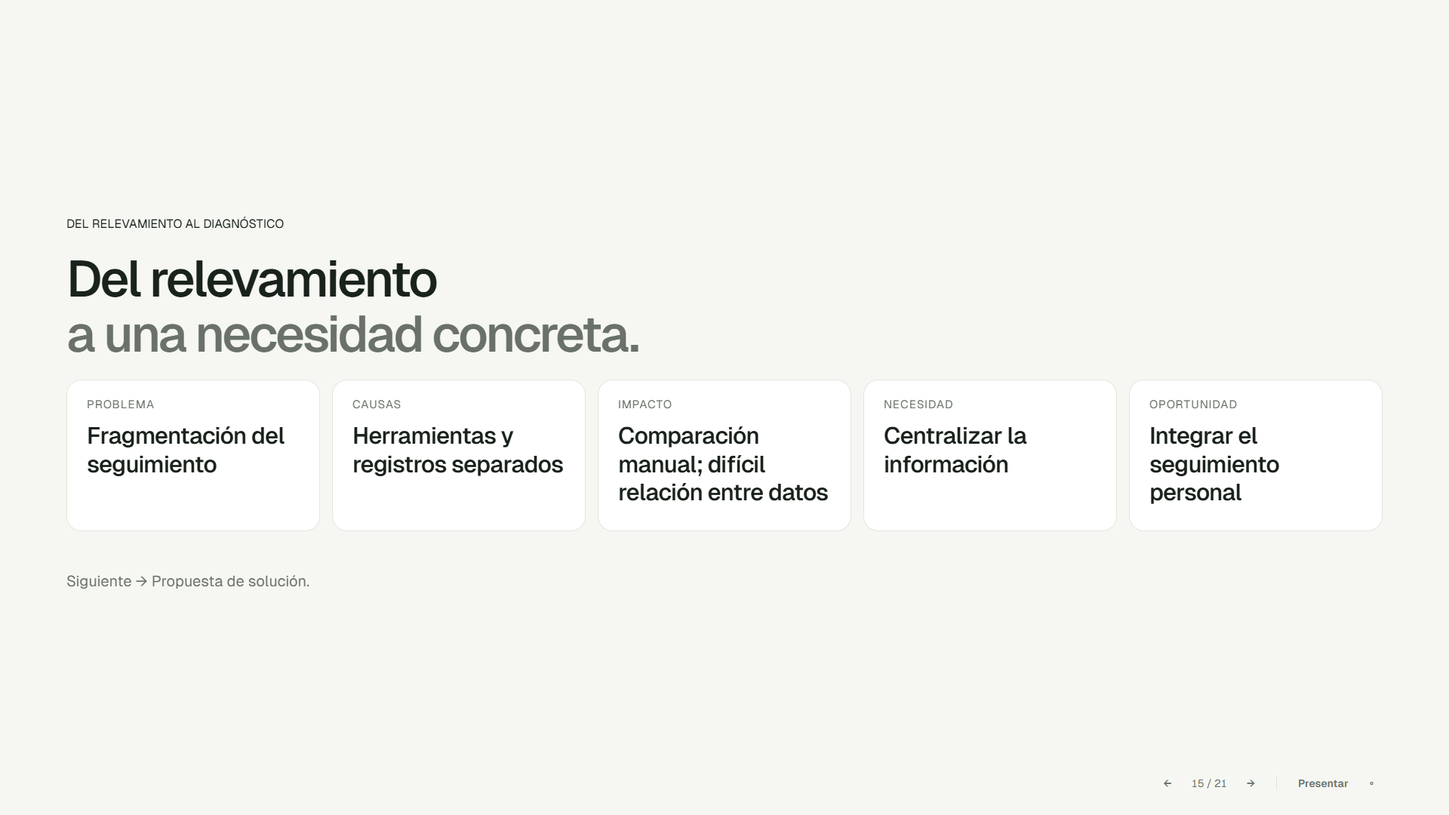
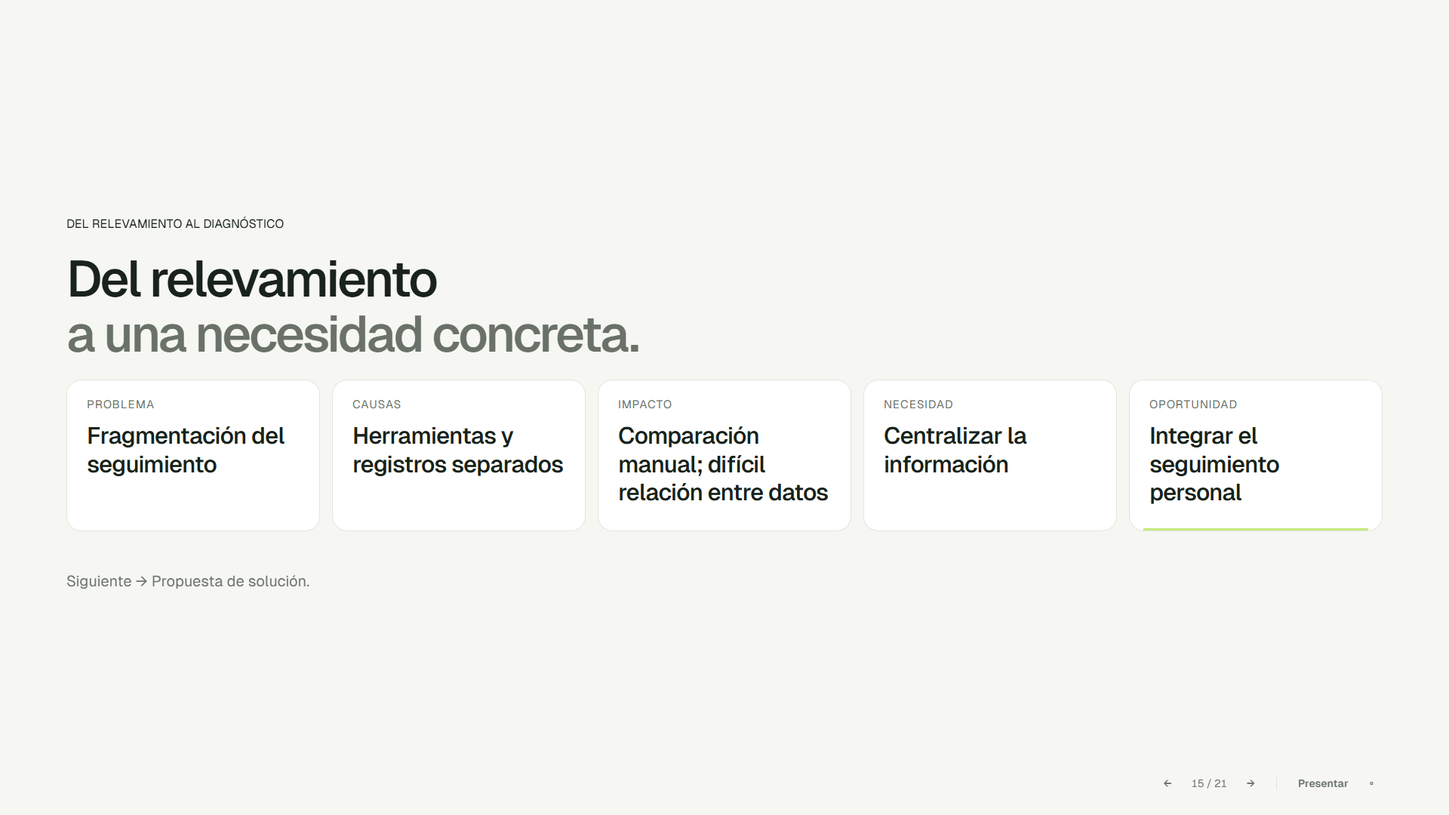
feat: polish presentation narrative and motion on experimental branch

diff --git a/src/presentation/final-deck.tsx b/src/presentation/final-deck.tsx
@@ -1,11 +1,11 @@
-import type { ReactNode } from 'react';
+import type { ReactNode } from 'react';
 import { BigStatement } from '@/components/presentation/Primitives';
 import { DemoAccess } from '@/components/presentation/DemoAccess';
 import { presentationBlocks as blocks } from './blocks';
 import type { PresentationSlide } from './types';
 
 function Scene({ id, eyebrow, title, children }: { id:string; eyebrow:string; title:ReactNode; children:ReactNode }) {
-  return <div className="p-block p-final"><p className="p-elicit-eyebrow">{eyebrow}</p><BigStatement id={id}>{title}</BigStatement>{children}</div>;
+  return <div className={`p-block p-final p-final-${id}`}><p className="p-elicit-eyebrow">{eyebrow}</p><BigStatement id={id}>{title}</BigStatement>{children}</div>;
 }
 function Cards({ items }: { items:[string,string][] }) {
   return <div className="p-final-cards p-motion-stagger">{items.map(([title,detail]) => <div className="p-card" key={title}><h2>{title}</h2><p>{detail}</p></div>)}</div>;
@@ -14,10 +14,10 @@ export const finalSlides: PresentationSlide[] = [
   { id:'relevamiento-organizacional', section:blocks[3].title, title:'El seguimiento entre áreas', speaker:'Diego', durationSeconds:45, notes:['Explicar responsabilidades y traspasos de información sin atribuir conflictos a las personas.'], render:<Scene id="relevamiento-organizacional" eyebrow="04 · RELEVAMIENTO Y DIAGNÓSTICO" title={<>La estructura existía.<br/><span>El seguimiento cruzaba varias áreas.</span></>}><div className="p-final-chain p-motion-stagger">{['Usuario','Atención / soporte','Operaciones','Información en recursos separados'].map(t=><div className="p-card" key={t}>{t}</div>)}</div><Cards items={[["Tecnología","Sostiene las herramientas y sus interacciones."],["Dirección","Orienta, gestiona y supervisa la actividad."]]}/><p className="p-block-caption">La continuidad del seguimiento depende de conectar la información entre áreas.</p></Scene> },
   { id:'as-is', section:blocks[3].title, title:'Modelo del proceso actual · AS-IS', speaker:'Diego', durationSeconds:45, render:<Scene id="as-is" eyebrow="EL PROCESO ACTUAL · AS-IS" title={<>Así funciona el seguimiento<br/><span>antes de la solución.</span></>}><div className="p-final-chain p-motion-stagger">{[['Entrada','Usuario con un objetivo'],['Registros','Entrenamiento, alimentación y peso'],['Procesamiento','Información distribuida y comparación manual'],['Resultado','Visión semanal difícil de integrar']].map(([a,b])=><div className="p-card" key={a}><small>{a}</small><h2>{b}</h2></div>)}</div><p className="p-block-caption">Punto de fricción: relacionar los registros exige reconstruir el recorrido manualmente.</p></Scene> },
   { id:'diagnostico', section:blocks[3].title, title:'Diagnóstico y oportunidad', speaker:'Diego', durationSeconds:45, render:<Scene id="diagnostico" eyebrow="DEL RELEVAMIENTO AL DIAGNÓSTICO" title={<>Del relevamiento<br/><span>a una necesidad concreta.</span></>}><div className="p-final-diagnosis p-motion-stagger">{[['Problema','Fragmentación del seguimiento'],['Causas','Herramientas y registros separados'],['Impacto','Comparación manual; difícil relación entre datos'],['Necesidad','Centralizar la información'],['Oportunidad','Integrar el seguimiento personal']].map(([a,b])=><div className="p-card" key={a}><small>{a}</small><h2>{b}</h2></div>)}</div><p className="p-block-caption">Siguiente → Propuesta de solución.</p></Scene> },
-  { id:'propuesta', section:blocks[4].title, title:'Un recorrido integrado · TO-BE', speaker:'Matías', durationSeconds:45, render:<Scene id="propuesta" eyebrow="05 · PROPUESTA Y REQUERIMIENTOS" title={<>Convertir datos separados<br/><span>en un recorrido integrado.</span></>}><div className="p-final-path p-motion-stagger">{['Usuario → Formance','Perfil y objetivo','Entrenamiento + alimentación + peso','Resumen semanal','Interpretación asistida por IA'].map((t,i)=><div className="p-card" key={t}><small>{String(i+1).padStart(2,'0')}</small><h2>{t}</h2></div>)}</div><p className="p-block-caption">AS-IS: reconstruir registros → TO-BE: consultar un seguimiento integrado.</p></Scene> },
+  { id:'propuesta', section:blocks[4].title, title:'Del proceso relevado al proceso propuesto', speaker:'Matías', durationSeconds:45, notes:['Consecuencia directa del diagnóstico: el registro centralizado evita reconstruir la semana manualmente.','El cambio principal es el recorrido de la información; la IA apoya la lectura del resumen y no es el único diferencial.'], render:<Scene id="propuesta" eyebrow="05 · PROPUESTA Y REQUERIMIENTOS" title={<>Del proceso relevado<br/><span>al proceso propuesto.</span></>}><div className="p-process-transformation"><div className="p-process-state p-process-before"><small>ANTES · AS-IS</small><ol>{['Registros separados','Reconstrucción manual','Lectura fragmentada'].map(t=><li key={t}>{t}</li>)}</ol></div><span className="p-transformation-bridge" aria-hidden="true">→</span><div className="p-process-state p-process-after"><small>DESPUÉS · TO-BE</small><ol>{['Registro centralizado','Resumen estructurado','Lectura integrada'].map(t=><li key={t}>{t}</li>)}</ol></div></div><p className="p-block-caption">Interpretación asistida por IA, sobre el resumen del sistema.</p></Scene> },
   { id:'reglas-solucion', section:blocks[4].title, title:'Reglas y decisiones de la solución', speaker:'Matías', durationSeconds:50, render:<Scene id="reglas-solucion" eyebrow="DECISIONES QUE DELIMITAN EL SISTEMA" title={<>La solución define qué hace.<br/><span>Y cómo se comporta.</span></>}><Cards items={[["Un actor principal","Usuario / Deportista. Sin roles profesionales."],["Confirmación antes de guardar","IA propone → usuario revisa → confirma → sistema guarda."],["Alternativa manual","La alimentación puede registrarse sin USDA ni Gemini."],["Cálculo e interpretación separados","El backend calcula métricas; Gemini interpreta el resumen. Sin diagnóstico ni prescripción."]]}/></Scene> },
   { id:'requerimientos-funcionales', section:blocks[4].title, title:'Requerimientos funcionales', speaker:'Matías', durationSeconds:55, notes:['Presentar los seis grupos y su trazabilidad; no leer diecinueve requisitos.'], render:<Scene id="requerimientos-funcionales" eyebrow="REQUERIMIENTOS FUNCIONALES · RF01–RF19" title={<>De la propuesta<br/><span>a comportamientos verificables.</span></>}><Cards items={[["RF01–RF02 · Acceso e identidad","Registro y autenticación."],["RF03–RF05 · Perfil y objetivo","Datos iniciales, objetivo y referencias."],["RF06–RF09 · Entrenamiento","Rutinas, ejercicios, sesiones e historial."],["RF10–RF15 · Alimentación","Registro, búsqueda, IA, confirmación y totales."],["RF16–RF17 · Peso","Registro e historial."],["RF18–RF19 · Reportes","Resumen semanal y análisis asistido."]]}/></Scene> },
   { id:'requisitos-modelado', section:blocks[4].title, title:'Calidad y modelado', speaker:'Matías', durationSeconds:55, notes:['No afirmar umbrales numéricos no disponibles en la especificación. CU01–CU11 expresa el alcance documentado.'], render:<Scene id="requisitos-modelado" eyebrow="REQUISITOS NO FUNCIONALES Y UML" title={<>No alcanza con que funcione.<br/><span>Debe hacerlo de forma confiable.</span></>}><div className="p-final-model p-motion-stagger"><div className="p-card"><h2>Calidad del sistema</h2><ul><li>Seguridad y control de acceso.</li><li>Rendimiento: tiempos de respuesta definidos.</li><li>Usabilidad y confiabilidad.</li><li>Mantenibilidad, portabilidad y escalabilidad.</li></ul></div><div className="p-card"><h2>Del comportamiento a los datos</h2><p><strong>CU01–CU11</strong> · Usuario / Deportista.</p><p>Externos: Firebase Authentication, USDA FoodData Central y Gemini.</p><p>Conceptos: perfil, rutinas, sesiones, alimentación, peso y resumen semanal.</p></div></div><p className="p-block-caption">De la especificación → al producto funcionando.</p></Scene> },
-  { id:'implementacion-demo', section:blocks[5].title, title:'Implementación y demo', speaker:'Hernán', durationSeconds:50, notes:['Demo manual en una pestaña nueva. Cuenta nueva previamente verificada: onboarding, objetivo, referencias y Mi resumen; no verificar email en vivo.','Cuenta demo: entrenamiento/sesión, alimentación, resultado IA persistido, peso, reporte y análisis. Reutilizar resultados guardados; evitar llamadas innecesarias y datos personales reales.','Si falla la demo, abrir capturas de respaldo. Volver a esta pestaña y avanzar al cierre manualmente.'], render:<Scene id="implementacion-demo" eyebrow="06 · DE LA PROPUESTA AL MVP" title={<>Del modelo<br/><span>a un sistema funcionando.</span></>}><div className="p-final-architecture p-motion-stagger"><div className="p-card"><small>PRODUCTO WEB RESPONSIVE</small><h2>Next.js · React · TypeScript</h2><p>Interfaz → Firebase Authentication (SDK)</p></div><div className="p-card"><small>API · CLIENTE → SERVIDOR</small><h2>Node.js · Express</h2><p>Valida identidad y procesa los datos.</p></div><div className="p-card"><small>DESDE EL BACKEND</small><h2>Cloud Firestore</h2><p>Persistencia de registros.</p><h2>USDA · Gemini</h2><p>Búsqueda e interpretación asistida.</p></div></div><DemoAccess/><p className="p-block-caption">Prototipo web funcional · Diseño cliente–servidor conservado.</p></Scene> },
-  { id:'cierre', section:blocks[6].title, title:'Del análisis a un MVP funcionando', speaker:'Hernán', durationSeconds:25, theme:'dark', render:<Scene id="cierre" eyebrow="07 · CIERRE" title={<>Del análisis<br/><span>a un MVP funcionando.</span></>}><div className="p-final-closing p-motion-stagger"><p>Problema relevado</p><p>Solución delimitada y modelada</p><p>Prototipo funcional validado</p></div><img className="p-final-brand" src="/brand/formance-white.svg" alt="Formance"/><p className="p-block-caption">Gracias.</p></Scene> },
+  { id:'implementacion-demo', section:blocks[5].title, title:'Implementación y demo', speaker:'Hernán', durationSeconds:50, notes:['Demo manual en una pestaña nueva. Cuenta nueva previamente verificada: onboarding, objetivo, referencias y Mi resumen; no verificar email en vivo.','Cuenta demo: entrenamiento/sesión, alimentación, resultado IA persistido, peso, reporte y análisis. Reutilizar resultados guardados; evitar llamadas innecesarias y datos personales reales.','Si falla la demo, abrir capturas de respaldo. Volver a esta pestaña y avanzar al cierre manualmente.'], render:<Scene id="implementacion-demo" eyebrow="06 · DE LA PROPUESTA AL MVP" title={<>Del modelo<br/><span>a un sistema funcionando.</span></>}><div className="p-final-architecture p-motion-stagger"><div className="p-card"><small>PRODUCTO WEB RESPONSIVE</small><h2>Next.js · React · TypeScript</h2><p>Interfaz → Firebase Authentication (SDK)</p></div><div className="p-card"><small>API · CLIENTE → SERVIDOR</small><h2>Node.js · Express</h2><p>Valida identidad y procesa los datos.</p></div><div className="p-card"><small>DESDE EL BACKEND</small><h2>Cloud Firestore</h2><p>Persistencia de registros.</p><div className="p-provider-services"><h2>USDA · Gemini</h2><p>Búsqueda e interpretación asistida.</p></div></div></div><DemoAccess/><p className="p-block-caption">Prototipo web funcional · Diseño cliente–servidor conservado.</p></Scene> },
+  { id:'cierre', section:blocks[6].title, title:'Del análisis a un MVP funcionando', speaker:'Hernán', durationSeconds:25, theme:'dark', render:<><img className="p-closing-watermark" src="/brand/isotype.svg" alt="" aria-hidden="true"/><Scene id="cierre" eyebrow="07 · CIERRE" title={<>Del análisis<br/><span>a un MVP funcionando.</span></>}><div className="p-final-closing p-motion-stagger"><p>Problema relevado</p><p>Solución delimitada y modelada</p><p>Prototipo funcional validado</p></div><img className="p-final-brand" src="/brand/formance-white.svg" alt="Formance"/><p className="p-block-caption">Gracias.</p></Scene></> },
 ];

diff --git a/src/presentation/motion-5.css b/src/presentation/motion-5.css
@@ -1,0 +1,137 @@
+/* Experimental layer: finite narrative sequences, no scheduling or layout animation. */
+.presentation { --motion-duration:640ms; --motion-distance:28px; --motion-stagger:105ms; }
+.p-scene { --motion-direction:1; }
+html[data-presentation-direction="backward"] .p-scene { --motion-direction:-1; }
+@keyframes p-scene-arrive {
+ from {opacity:.15;transform:translateX(calc(24px * var(--motion-direction))) scale(.99)}
+ to {opacity:1;transform:none}
+}
+@keyframes p-content-rise {
+ from {opacity:0;transform:translateY(var(--motion-distance)) scale(.98)}
+ to {opacity:1;transform:none}
+}
+@keyframes p-domain-converge {
+ from {opacity:0;transform:translate(var(--motion-x,0px),20px) scale(.97)}
+ to {opacity:1;transform:none}
+}
+/* Forward and backward snapshots keep the same visual direction as the input. */
+::view-transition-old(formance-scene) {animation:p-scene-depart 420ms var(--motion-ease,cubic-bezier(.22,1,.36,1)) both}
+::view-transition-new(formance-scene) {animation:p-snapshot-arrive 520ms cubic-bezier(.22,1,.36,1) both}
+@keyframes p-scene-depart {to {opacity:0;transform:translateX(-32px) scale(.985)}}
+@keyframes p-snapshot-arrive {from {opacity:0;transform:translateX(32px) scale(.99)}to{opacity:1;transform:none}}
+html[data-presentation-direction="backward"]::view-transition-old(formance-scene) {animation-name:p-snapshot-back-out}
+html[data-presentation-direction="backward"]::view-transition-new(formance-scene) {animation-name:p-snapshot-back-in}
+@keyframes p-snapshot-back-out {to{opacity:0;transform:translateX(32px) scale(.985)}}
+@keyframes p-snapshot-back-in {from{opacity:0;transform:translateX(-32px) scale(.99)}to{opacity:1;transform:none}}
+/* 03 → 04: the same domain cards travel into the integrated composition. */
+@media(prefers-reduced-motion:no-preference) {
+ .p-scene:is([data-scene="problema"],[data-scene="vision-objetivos"]) .p-domain:nth-child(1){view-transition-name:formance-training}
+ .p-scene:is([data-scene="problema"],[data-scene="vision-objetivos"]) .p-domain:nth-child(2){view-transition-name:formance-food}
+ .p-scene:is([data-scene="problema"],[data-scene="vision-objetivos"]) .p-domain:nth-child(3){view-transition-name:formance-weight}
+}
+::view-transition-group(formance-training),::view-transition-group(formance-food),::view-transition-group(formance-weight){animation-duration:650ms;animation-timing-function:cubic-bezier(.22,1,.36,1)}
+.p-scene .is-integrated .p-domain:first-child{--motion-x:-36px}
+.p-scene .is-integrated .p-domain:last-child{--motion-x:36px}
+.p-scene[data-scene="vision-objetivos"] .p-unified{animation-delay:1000ms}
+.p-scene[data-scene="vision-objetivos"] .p-vision-objectives>:first-child{animation-delay:1280ms}
+.p-scene[data-scene="vision-objetivos"] .p-vision-objectives>:last-child{animation-delay:1430ms}
+/* 05: node, connection, next node. The endpoint carries the product accent. */
+.p-scene .p-scope-flow>li {animation-delay:calc(280ms + (var(--motion-order) - 3) * 170ms)}
+.p-scene .p-scope-flow .p-step-arrow{animation:p-connection-trace 260ms var(--motion-ease) both;animation-delay:calc(470ms + (var(--motion-order) - 3) * 170ms)}
+.p-scope-flow>li:last-child{border-color:#9fbf70;background:#edf2e6}
+.p-scene .p-scope-boundaries>:first-child{animation-delay:1350ms}
+.p-scene .p-scope-boundaries>:last-child{animation-delay:1550ms}
+@keyframes p-connection-trace {from{opacity:0;clip-path:inset(0 100% 0 0)}to{opacity:1;clip-path:none}}
+/* 06: four quiet directions, then the scope decision. */
+.p-scene .p-exclusions>.p-card{animation-name:p-card-unfold;--card-x:-24px;--card-y:16px}
+.p-scene .p-exclusions>.p-card:nth-child(2){--card-x:24px;--card-y:16px}
+.p-scene .p-exclusions>.p-card:nth-child(3){--card-x:-24px;--card-y:-16px}
+.p-scene .p-exclusions>.p-card:nth-child(4){--card-x:24px;--card-y:-16px}
+.p-scene[data-scene="no-contempla"] .p-block-ending{animation-delay:1120ms}
+@keyframes p-card-unfold {from{opacity:0;transform:translate(var(--card-x,0px),var(--card-y,24px)) scale(.97)}to{opacity:1;transform:none}}
+/* 07–10: actor → domains; technical rows; convergence; radial context. */
+.p-scene[data-scene="contexto-proceso"] .p-context-person{animation-delay:260ms}
+.p-scene[data-scene="contexto-proceso"] .p-context-domains{--motion-base:5}
+.p-scene[data-scene="contexto-proceso"] .p-elicit-caption{animation-delay:1080ms}
+.p-scene .p-tech-layers dd>span{animation:p-option-reveal 420ms var(--motion-ease) both;animation-delay:calc(var(--motion-order) * var(--motion-stagger) + 90ms)}
+.p-scene .p-tech-layers dd>span+span{animation-delay:calc(var(--motion-order) * var(--motion-stagger) + 190ms)}
+@keyframes p-option-reveal{from{opacity:0;transform:translateX(12px)}to{opacity:1;transform:none}}
+.p-scene .p-market-zone{animation-name:p-card-unfold;--card-x:-32px;--card-y:10px;animation-delay:300ms}
+.p-scene .p-market-zone:nth-child(2){--card-x:32px;animation-delay:520ms}
+.p-scene .p-market-intersection{animation:p-intersection-resolve 720ms var(--motion-ease) 800ms both}
+@keyframes p-intersection-resolve{from{opacity:0;transform:translateY(28px) scale(.97)}to{opacity:1;transform:none}}
+.p-scene .p-market-bridges>span{display:inline-block;animation:p-connection-trace 400ms var(--motion-ease) 650ms both}
+.p-scene .p-stakeholder-primary{animation-delay:250ms}
+.p-scene .p-stakeholder-brand{animation-delay:470ms}
+.p-scene .p-stakeholder-orbit>.p-card{animation-name:p-card-unfold;--card-x:-24px;--card-y:-18px;animation-delay:calc(650ms + (var(--motion-order) - 4) * 100ms)}
+.p-scene .p-stakeholder-orbit>.p-card:nth-child(2){--card-x:-10px;--card-y:18px}
+.p-scene .p-stakeholder-orbit>.p-card:nth-child(3){--card-x:10px;--card-y:18px}
+.p-scene .p-stakeholder-orbit>.p-card:nth-child(4){--card-x:24px;--card-y:-18px}
+/* 13–15: circulation and a causal progression, ending at the opportunity. */
+.p-final-chain>.p-card,.p-final-diagnosis>.p-card{position:relative}
+.p-scene .p-final-chain>.p-card,.p-scene .p-final-diagnosis>.p-card{animation-name:p-card-unfold;--card-x:-28px;--card-y:0px;animation-delay:calc(300ms + (var(--motion-order) - 3) * 180ms)}
+.p-scene .p-final-chain>.p-card:after,.p-scene .p-final-architecture>.p-card:after{animation:p-connection-trace 300ms var(--motion-ease) both;animation-delay:calc(490ms + (var(--motion-order) - 3) * 180ms)}
+.p-scene[data-scene="relevamiento-organizacional"] .p-final-cards{--motion-base:11}
+.p-final-diagnosis>.p-card:before{content:'';position:absolute;height:3px;left:18px;right:18px;bottom:0;background:var(--accent);transform-origin:left}
+.p-scene .p-final-diagnosis>.p-card:before{animation:p-causal-accent 520ms var(--motion-ease) both;animation-delay:calc(380ms + (var(--motion-order) - 3) * 180ms)}
+.p-scene .p-final-diagnosis>.p-card:last-child:before{animation-name:p-causal-arrive}
+@keyframes p-causal-accent{0%{opacity:0;transform:scaleX(0)}45%{opacity:1;transform:scaleX(1)}100%{opacity:0;transform:scaleX(1)}}
+@keyframes p-causal-arrive{from{opacity:0;transform:scaleX(0)}to{opacity:1;transform:scaleX(1)}}
+/* 16: the process changes, instead of repeating modules. */
+.p-process-transformation{display:grid;grid-template-columns:1fr 64px 1fr;align-items:center;gap:24px}
+.p-process-state{border:1px solid var(--presentation-border);border-radius:20px;padding:28px;position:relative;overflow:hidden}
+.p-process-state small{font-size:16px;letter-spacing:.1em;color:var(--presentation-muted)}
+.p-process-state ol{list-style:none;padding:0;margin:20px 0 0;display:flex;flex-direction:column;gap:14px}
+.p-process-state li{font-size:clamp(22px,1.8vw,32px);line-height:1.25}
+.p-process-state li+li:before{content:'↓';display:block;color:var(--presentation-muted);font-size:20px;margin-bottom:10px}
+.p-process-after{background:#edf2e6;border-color:#b2cb8d}
+.p-transformation-bridge{font-size:44px;text-align:center;color:var(--presentation-muted)}
+.p-scene .p-process-before{animation:p-card-unfold 600ms var(--motion-ease) 300ms both;--card-x:-28px;--card-y:0px}
+.p-scene .p-process-before li{animation:p-content-rise 420ms var(--motion-ease) both;animation-delay:calc(400ms + var(--step,0) * 110ms)}
+.p-scene .p-process-state li:nth-child(2){--step:1}
+.p-scene .p-process-state li:nth-child(3){--step:2}
+.p-scene .p-transformation-bridge{animation:p-connection-trace 420ms var(--motion-ease) 820ms both}
+.p-scene .p-process-after{animation:p-state-transform 650ms var(--motion-ease) 1040ms both}
+.p-scene .p-process-after li{animation:p-content-rise 420ms var(--motion-ease) both;animation-delay:calc(1130ms + var(--step,0) * 110ms)}
+.p-scene[data-scene="propuesta"] .p-block-caption{animation-delay:1580ms}
+@keyframes p-state-transform{from{opacity:0;clip-path:inset(0 100% 0 0);transform:translateX(-24px)}to{opacity:1;clip-path:none;transform:none}}
+/* 17–19: decision matrix, grouped RF cadence and complementary specification. */
+.p-scene[data-scene="reglas-solucion"] .p-final-cards>.p-card:last-child{animation-name:p-card-unfold;--card-x:0px;--card-y:28px}
+.p-final-reglas-solucion .p-final-cards>.p-card:last-child{border-color:#b2cb8d}
+.p-scene[data-scene="requerimientos-funcionales"] .p-final-cards{--motion-base:3}
+.p-scene .p-final-model>.p-card{animation-name:p-card-unfold;--card-x:28px;--card-y:0px}
+.p-scene .p-final-model>.p-card:last-child{--card-x:-28px;animation-delay:500ms}
+/* 20: build the implemented layers, then providers, then the manual invitation. */
+.p-scene .p-final-architecture>.p-card{animation-name:p-card-unfold;--card-x:-28px;--card-y:0px;animation-delay:calc(300ms + (var(--motion-order) - 3) * 230ms)}
+.p-scene .p-provider-services{animation:p-content-rise 500ms var(--motion-ease) 1050ms both}
+.p-scene .p-demo-access>.p-cta{animation:p-cta-resolve 640ms var(--motion-ease) 1400ms both}
+.p-scene .p-demo-access>.p-demo-backup{animation:p-content-rise 450ms var(--motion-ease) 1630ms both}
+.p-scene[data-scene="implementacion-demo"] .p-block-caption{animation-delay:1750ms}
+@keyframes p-cta-resolve{from{opacity:0;transform:translateY(28px) scale(.97)}to{opacity:1;transform:none}}
+/* 21: the final statements resolve one by one and remain still. */
+.p-scene .p-final-closing>:nth-child(1){animation-delay:500ms}
+.p-scene .p-final-closing>:nth-child(2){animation-delay:720ms}
+.p-scene .p-final-closing>:nth-child(3){animation-delay:940ms}
+.p-scene .p-final-brand{animation:p-content-rise 700ms var(--motion-ease) 1230ms both}
+.p-scene[data-scene="cierre"] .p-block-caption{animation-delay:1530ms}
+.p-closing-watermark{position:absolute;right:6%;top:15%;width:min(36vw,620px);height:auto;filter:brightness(0) invert(1);opacity:.035;pointer-events:none}
+.p-scene .p-closing-watermark{animation:p-closing-depth 1500ms var(--motion-ease) 180ms both}
+@keyframes p-closing-depth{from{opacity:0;transform:translateX(36px) scale(.97)}to{opacity:.035;transform:none}}
+@media(max-width:700px){
+ .p-process-transformation{grid-template-columns:1fr;gap:10px}
+ .p-process-state{padding:14px 18px}.p-process-state small{font-size:11px}
+ .p-process-state ol{margin-top:10px;gap:6px}.p-process-state li{font-size:16px}
+ .p-process-state li+li:before{display:none}
+ .p-transformation-bridge{font-size:24px;line-height:1;transform:rotate(90deg)}
+ .p-closing-watermark{width:55vw;right:2%;top:14%}
+}
+/* Same complete end state with reduced motion or in map thumbnails. */
+.p-thumbnail-stage .p-final-diagnosis>.p-card:not(:last-child):before{opacity:0}
+@media(prefers-reduced-motion:reduce){
+ .p-final-diagnosis>.p-card:not(:last-child):before{opacity:0}
+}
+/* Endpoints follow the complete diagram, including supporting context. */
+.p-scene[data-scene="relevamiento-organizacional"] .p-block-caption{animation-delay:1640ms}
+.p-scene[data-scene="as-is"] .p-block-caption{animation-delay:1490ms}
+.p-scene[data-scene="diagnostico"] .p-block-caption{animation-delay:1650ms}
+.p-scene[data-scene="requisitos-modelado"] .p-block-caption{animation-delay:1190ms}

diff --git a/src/presentation/elicitation.tsx b/src/presentation/elicitation.tsx
@@ -16,20 +16,18 @@ function ElicitationScene({ id, eyebrow, title, children }: {
 const section = presentationBlocks[2].title;
 export const elicitationSlides: PresentationSlide[] = [
   {
-    id: 'contexto-proceso', section, speaker: 'Nahuel', title: 'El seguimiento ya existe. Pero ocurre por separado.',
+    id: 'contexto-proceso', section, speaker: 'Nahuel', title: 'Antes de modelar, definimos el contexto a relevar.',
     notes: [
       'Actor: persona con actividad física estructurada; necesita seguir entrenamiento, alimentación y evolución física.',
       'Escenario de referencia simulado, sin organización cliente real.',
-      'Describir el estado actual: objetivo, registros en herramientas distintas y comparación manual.',
+      'Delimitar el contexto de elicitación: actor y tres dimensiones de su seguimiento. Las herramientas son fuentes de información, no un proceso modelado en esta escena.',
+      'Reservar la secuencia entrada, registros, procesamiento y resultado para el AS-IS de la slide 14.',
       'No desarrollar diagnóstico. Pasar a las alternativas técnicas analizadas.',
     ],
-    render: <ElicitationScene id="contexto-proceso" eyebrow="CONTEXTO Y PROCESO ACTUAL" title={<>El seguimiento ya existe.<br /><span>Pero ocurre por separado.</span></>}>
+    render: <ElicitationScene id="contexto-proceso" eyebrow="CONTEXTO DE ELICITACIÓN" title={<>Antes de modelar,<br /><span>definimos el contexto a relevar.</span></>}>
       <div className="p-context-person"><span className="p-domain-number">ACTOR PRINCIPAL</span><h2>Persona que realiza actividad física estructurada</h2></div>
-      <div className="p-current-process"><div className="p-process-end">Objetivo físico</div><span className="p-process-direction" aria-hidden="true">↓</span>
-        <div className="p-context-domains p-motion-stagger">{[['Entrenamiento','Herramienta A'],['Alimentación','Herramienta B'],['Peso','Herramienta C']].map(([title,tool]) => <div className="p-card" key={title}><span className="p-domain-number">{tool}</span><h2>{title}</h2></div>)}</div>
-        <span className="p-process-direction" aria-hidden="true">↓</span><div className="p-process-end">Comparación manual</div>
-      </div>
-      <p className="p-elicit-caption">Escenario de referencia simulado · Entrenamiento, alimentación y evolución física.</p>
+      <div className="p-context-domains p-motion-stagger">{['Entrenamiento','Alimentación','Evolución física'].map((title,index) => <div className="p-card" key={title}><span className="p-domain-number">0{index+1}</span><h2>{title}</h2></div>)}</div>
+      <p className="p-elicit-caption">Escenario de referencia simulado.</p>
     </ElicitationScene>,
   },
   {

diff --git a/src/components/presentation/useSceneTransition.ts b/src/components/presentation/useSceneTransition.ts
@@ -6,11 +6,16 @@ import { flushSync } from 'react-dom';
 export function useSceneTransition() {
   const running = useRef<ViewTransition | null>(null);
   const generation = useRef(0);
-  useEffect(() => () => { generation.current++; running.current?.skipTransition(); }, []);
+  useEffect(() => () => {
+    generation.current++;
+    running.current?.skipTransition();
+    delete document.documentElement.dataset.presentationDirection;
+  }, []);
   const cancel = () => { generation.current++; running.current?.skipTransition(); };
-  const animate = (commit: () => void) => {
+  const animate = (commit: () => void, direction = 1) => {
     const request = ++generation.current;
     running.current?.skipTransition();
+    document.documentElement.dataset.presentationDirection = direction < 0 ? 'backward' : 'forward';
     const reduce = window.matchMedia('(prefers-reduced-motion: reduce)').matches;
     if (reduce || !document.startViewTransition || document.visibilityState !== 'visible') {
       commit();

diff --git a/src/components/presentation/PresentationShell.tsx b/src/components/presentation/PresentationShell.tsx
@@ -27,10 +27,11 @@ export default function PresentationShell() {
     function navigate(next: number) {
         const bounded = Math.max(0, Math.min(active.length - 1, next));
         if (!active[bounded] || bounded === requestedIndex.current) return;
+        const direction = bounded > requestedIndex.current ? 1 : -1;
         requestedIndex.current = bounded;
         const hash = `#${active[bounded].id}`;
         if (window.location.hash !== hash) window.history.pushState(null, '', hash);
-        animateScene(() => setIndex(bounded));
+        animateScene(() => setIndex(bounded), direction);
     }
     useEffect(() => {
         function sync() { cancelSceneTransition(); const hashId = window.location.hash.slice(1); const id = slideHashAliases[hashId] ?? hashId; const next = active.findIndex(s => s.id === id); requestedIndex.current = next < 0 ? 0 : next; setIndex(requestedIndex.current); if (next < 0 || id !== hashId)

diff --git a/src/app/presentacion/layout.tsx b/src/app/presentacion/layout.tsx
@@ -2,6 +2,7 @@ import type { Metadata } from 'next';
 import '@/presentation/presentation.css';
 import '@/presentation/final-deck.css';
 import '@/presentation/motion.css';
+import '@/presentation/motion-5.css';
 export const metadata: Metadata = { title: 'Formance · Defensa final', robots: { index: false, follow: false } };
 export default function PresentationLayout({ children }: {
     children: React.ReactNode;

diff --git a/src/presentation/hash-aliases.ts b/src/presentation/hash-aliases.ts
@@ -6,5 +6,5 @@ export const slideHashAliases: Record<string, string> = {
   alcance: 'alcance-limites',
   limites: 'alcance-limites',
   contexto: 'contexto-proceso',
-  'proceso-actual': 'contexto-proceso',
+  'proceso-actual': 'as-is',
 };

diff --git a/docs/presentation/MOTION_5_REVIEW.md b/docs/presentation/MOTION_5_REVIEW.md
@@ -1,0 +1,38 @@
+# Motion 5 — revisión
+
+Checkpoint estable: `bbc72453727c6eb7901afdf5fcd8d3e80338c234`, branch `feature/final-presentation`. Se validó antes del commit: 15 tests, typecheck, build y 14 Playwright correctos.
+
+Experimento: `experiment/presentation-motion-5`. Mantiene las 21 escenas, siete bloques, expositores y navegación manual.
+
+## Auditoría narrativa
+
+| Slides | Idea propia verificada |
+| --- | --- |
+| 01 / 02 | Identidad del proyecto / equipo |
+| 03 / 04 | Problema / visión y objetivos |
+| 05 / 06 | Frontera del recorrido / exclusiones deliberadas |
+| 07 / 08 / 09 | Contexto a relevar / alternativas técnicas / oportunidad competitiva |
+| 10 / 11 / 12 | Actores / áreas del servicio simulado / criterios derivados de elicitación |
+| 13 / 14 / 15 | Traspasos de información / AS-IS formal / diagnóstico causal |
+| 16 / 17 / 18 / 19 | Transformación TO-BE / reglas / RF agrupados / calidad y modelado |
+| 20 / 21 | Implementación real y demo / cierre |
+
+Cambios de contenido limitados a 07 y 16. En 07 se retiró la cadena objetivo→herramientas→comparación manual y se mantuvieron actor, tres dimensiones y escenario simulado; la explicación pasó a notes. La 14 conserva el proceso completo. La 16 contrasta registros separados/reconstrucción/lectura fragmentada con registro centralizado/resumen/lectura integrada. IA como apoyo final. 11 y 12 conservadas: describen estructura organizacional y criterios de diseño, respectivamente. Los demás textos ya son breves o conservan conceptos académicos necesarios.
+
+## Motion experimental
+
+Capa independiente `motion-5.css`, sin dependencias nuevas. Entradas de 20–36 px, escala leve, snapshots direccionales y cancelación de transiciones ante navegación rápida. En 03→04 los tres dominios comparten identidad visual; convergen antes de la marca y los objetivos. Secuencias propias en 05–10 y 13–21: conexiones, direcciones de exclusión, contexto radial, acento causal, transformación AS-IS→TO-BE, arquitectura por capas/proveedores/CTA y cierre oscuro con isotipo original. Sin loops, filtros animados ni cambio de slide por animación. Mapa estático y reduced motion muestran el estado final completo.
+
+Figma: inventario revisado; siguen faltando exports purple/blue aprobados. Se reutilizó únicamente el isotipo existente, sin bloquear el experimento.
+
+## Comparación
+
+Los 21 previews estables quedan preservados en el checkpoint; los experimentales se regeneran en el mismo directorio de esta rama. Para comparar código: `git diff feature/final-presentation...experiment/presentation-motion-5 -- src/presentation src/components/presentation`.
+
+Una vez guardado el experimento, volver a la versión estable con `git switch feature/final-presentation`; regresar con `git switch experiment/presentation-motion-5`. No se resetea ni sobrescribe el checkpoint. Para reproducir en cualquiera de las ramas: `npm.cmd run dev -- --port 3000`.
+
+Validación experimental: `npm.cmd test` 15/15; `npm.cmd run typecheck` y `npm.cmd run build` correctos; Playwright 16/16. Se verificaron las 21 escenas, encaje en cuatro viewports, teclado/rueda/swipe, navegación rápida, fallback de View Transitions, reduced motion completo, CTA/respaldo, iteraciones finitas, estado final visible y hash estable al terminar naturalmente cada secuencia. Sin llamadas a APIs del MVP. Los 21 previews fueron regenerados; 15 resultaron idénticos y seis reflejan cambios de contenido o acentos finales. Revisados visualmente 04, 05, 07, 16, 20 y 21, además de 11/12 durante la auditoría.
+
+Compatibilidad: `#contexto-proceso` permanece en 07; el alias histórico `#proceso-actual` ahora dirige al AS-IS de 14.
+
+Servidor experimental conservado: http://localhost:3000/presentacion y http://localhost:3000/presentacion/mapa.
